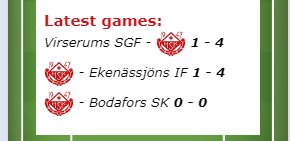
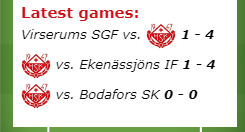
changed from hyphen to vs at latest scores

diff --git a/teams/balaryds.html b/teams/balaryds.html
@@ -50,19 +50,17 @@
       </p>
       <p>
         <span class="balaryd bold">Senaste resultat:</span><br>
-        <span class="svar scores">Gripenbergs BK - <img src="../assets/pics/logo/balaryds_50.png" alt="logo_balaryd" class="scores"> <a class="link bold"
+        <span class="svar scores">Gripenbergs BK vs. <img src="../assets/pics/logo/balaryds_50.png" alt="logo_balaryd" class="scores"> <a class="link bold"
           href="https://www.smalandsfotbollen.se/rs/matchfakta/gripenbergs-bk-balaryds-ik-toyota-cup-herr-smaland/5763909/"
           target="_blank">1 - 2</a></span>
         <br>
-        <span class="svar scores"><img src="../assets/pics/logo/balaryds_50.png" alt="logo_balaryd" class="scores"> - Sommens AIF <a class="link bold"
+        <span class="svar scores"><img src="../assets/pics/logo/balaryds_50.png" alt="logo_balaryd" class="scores"> vs. Sommens AIF <a class="link bold"
           href="https://www.smalandsfotbollen.se/rs/matchfakta/balaryds-ik-sommens-aif-toyota-cup-herr-smaland/5763907/"
           target="_blank">3 - 1</a></span>
         <br>
-        <span class="svar scores">Gripenbergs BK - <img src="../assets/pics/logo/balaryds_50.png" alt="logo_balaryd" class="scores"> <a class="link bold"
+        <span class="svar scores">Gripenbergs BK vs. <img src="../assets/pics/logo/balaryds_50.png" alt="logo_balaryd" class="scores"> <a class="link bold"
           href="https://www.smalandsfotbollen.se/rs/matchfakta/gripenbergs-bk-6-balaryds-ik-5-traningsmatcher-smaland/5786484/"
           target="_blank">0 - 0</a></span>
-        <br>
-        <span class="svar"><a class="link bold" href="" target="_blank"></a></span>
       </p>
     </div>
   </body>

diff --git a/eng/teams/backseda.html b/eng/teams/backseda.html
@@ -40,15 +40,15 @@
       </p>
       <p>
         <span class="svart bold">Latest games:</span><br>
-        <span class="svar scores">Åseda IF - <img src="../../assets/pics/logo/backseda_50.png" alt="logo_backseda" class="scores"> <a class="link bold"
+        <span class="svar scores">Åseda IF vs. <img src="../../assets/pics/logo/backseda_50.png" alt="logo_backseda" class="scores"> <a class="link bold"
           href="https://www.smalandsfotbollen.se/rs/matchfakta/aseda-if-backseda-if-toyota-cup-herr-smaland/5763927/"
           target="_blank">1 - 6</a>
         <br>
-        <span class="svar scores"><img src="../../assets/pics/logo/backseda_50.png" alt="logo_backseda" class="scores"> - Lenhovda IF <a class="link bold"
+        <span class="svar scores"><img src="../../assets/pics/logo/backseda_50.png" alt="logo_backseda" class="scores"> vs. Lenhovda IF <a class="link bold"
           href="https://www.smalandsfotbollen.se/rs/matchfakta/backseda-if-lenhovda-if-toyota-cup-herr-smaland/5763925/"
           target="_blank">1 - 1</a></span>
         <br>
-        <span class="svar scores">Farstorps IK - <img src="../../assets/pics/logo/backseda_50.png" alt="logo_backseda" class="scores"> <a class="link bold"
+        <span class="svar scores">Farstorps IK vs. <img src="../../assets/pics/logo/backseda_50.png" alt="logo_backseda" class="scores"> <a class="link bold"
           href="https://www.smalandsfotbollen.se/rs/matchfakta/farstorps-ik-6-backseda-if-5-traningsmatcher-smaland/5752622/"
           target="_blank">1 - 5</a></span>
         <span class="svar"><a class="link bold" href="" target="_blank"></a></span>

diff --git a/teams/backseda.html b/teams/backseda.html
@@ -40,15 +40,15 @@
       </p>
       <p>
         <span class="svart bold">Senaste resultat:</span><br>
-        <span class="svar scores">Åseda IF - <img src="../assets/pics/logo/backseda_50.png" alt="logo_backseda" class="scores"> <a class="link bold"
+        <span class="svar scores">Åseda IF vs. <img src="../assets/pics/logo/backseda_50.png" alt="logo_backseda" class="scores"> <a class="link bold"
           href="https://www.smalandsfotbollen.se/rs/matchfakta/aseda-if-backseda-if-toyota-cup-herr-smaland/5763927/"
           target="_blank">1 - 6</a>
         <br>
-        <span class="svar scores"><img src="../assets/pics/logo/backseda_50.png" alt="logo_backseda" class="scores"> - Lenhovda IF <a class="link bold"
+        <span class="svar scores"><img src="../assets/pics/logo/backseda_50.png" alt="logo_backseda" class="scores"> vs. Lenhovda IF <a class="link bold"
           href="https://www.smalandsfotbollen.se/rs/matchfakta/backseda-if-lenhovda-if-toyota-cup-herr-smaland/5763925/"
           target="_blank">1 - 1</a></span>
         <br>
-        <span class="svar scores">Farstorps IK - <img src="../assets/pics/logo/backseda_50.png" alt="logo_backseda" class="scores"> <a class="link bold"
+        <span class="svar scores">Farstorps IK vs. <img src="../assets/pics/logo/backseda_50.png" alt="logo_backseda" class="scores"> <a class="link bold"
           href="https://www.smalandsfotbollen.se/rs/matchfakta/farstorps-ik-6-backseda-if-5-traningsmatcher-smaland/5752622/"
           target="_blank">1 - 5</a></span>
         <span class="svar"><a class="link bold" href="" target="_blank"></a></span>

diff --git a/eng/teams/ekenassjon.html b/eng/teams/ekenassjon.html
@@ -40,15 +40,15 @@
       </p>
       <p>
         <span class="ekenassjon bold">Latest games:</span><br>
-        <span class="svar scores">Farstorps IK - <img src="../../assets/pics/logo/ekenassjon_50.png" alt="logo_ekenassjon" class="scores"> <a class="link bold"
+        <span class="svar scores">Farstorps IK vs. <img src="../../assets/pics/logo/ekenassjon_50.png" alt="logo_ekenassjon" class="scores"> <a class="link bold"
           href="https://www.smalandsfotbollen.se/rs/matchfakta/farstorps-ik-6-ekenassjons-if-5-traningsmatcher-smaland/5765204/"
           target="_blank">0 - 1</a></span>
         <br>
-        <span class="svar scores">Holsby SK - <img src="../../assets/pics/logo/ekenassjon_50.png" alt="logo_ekenassjon" class="scores"> <a class="link bold"
+        <span class="svar scores">Holsby SK vs. <img src="../../assets/pics/logo/ekenassjon_50.png" alt="logo_ekenassjon" class="scores"> <a class="link bold"
           href="https://www.smalandsfotbollen.se/rs/matchfakta/holsby-sk-ekenassjons-if-toyota-cup-herr-smaland/5763931/"
           target="_blank">1 - 4</a></span>
         <br>
-        <span class="svar scores"><img src="../../assets/pics/logo/ekenassjon_50.png" alt="logo_ekenassjon" class="scores"> - Mörlunda GIF <a class="link bold"
+        <span class="svar scores"><img src="../../assets/pics/logo/ekenassjon_50.png" alt="logo_ekenassjon" class="scores"> vs. Mörlunda GIF <a class="link bold"
           href="https://www.smalandsfotbollen.se/rs/matchfakta/ekenassjons-if-morlunda-gif-toyota-cup-herr-smaland/5763934/"
           target="_blank">3 - 0</a></span>
       </p>

diff --git a/eng/teams/lekeryd.html b/eng/teams/lekeryd.html
@@ -40,15 +40,15 @@
       </p>
       <p>
         <span class="lekeryd bold">Latest games:</span><br>
-        <span class="svar scores">Visingsö AIS - <img src="../../assets/pics/logo/lekeryd_50.png" alt="logo_lekeryd" class="scores"> <a class="link bold"
+        <span class="svar scores">Visingsö AIS vs. <img src="../../assets/pics/logo/lekeryd_50.png" alt="logo_lekeryd" class="scores"> <a class="link bold"
           href="https://www.smalandsfotbollen.se/rs/matchfakta/visingso-ais-lekeryd-svart.-sk-toyota-cup-herr-smaland/5763891/"
           target="_blank">3 - 4</a></span>
         <br>
-        <span class="svar scores"><img src="../../assets/pics/logo/lekeryd_50.png" alt="logo_lekeryd" class="scores"> - Skillingaryds IS <a class="link bold"
+        <span class="svar scores"><img src="../../assets/pics/logo/lekeryd_50.png" alt="logo_lekeryd" class="scores"> vs. Skillingaryds IS <a class="link bold"
           href="https://www.smalandsfotbollen.se/rs/matchfakta/lekeryd-svart.-sk-skillingaryds-is-toyota-cup-herr-smaland/5763889/"
           target="_blank">0 - 2</a></span>
         <br>
-        <span class="svar scores"><img src="../../assets/pics/logo/lekeryd_50.png" alt="logo_lekeryd" class="scores"> - Ekhagens IF <a class="link bold"
+        <span class="svar scores"><img src="../../assets/pics/logo/lekeryd_50.png" alt="logo_lekeryd" class="scores"> vs. Ekhagens IF <a class="link bold"
           href="https://www.smalandsfotbollen.se/rs/matchfakta/lekeryd-svart.-sk-5-ekhagens-if-4-traningsmatcher-smaland/5776234/"
           target="_blank">0 - 4</a></span>
       </p>

diff --git a/teams/ekenassjon.html b/teams/ekenassjon.html
@@ -40,15 +40,15 @@
       </p>
       <p>
         <span class="ekenassjon bold">Senaste resultat:</span><br>
-        <span class="svar scores">Farstorps IK - <img src="../assets/pics/logo/ekenassjon_50.png" alt="logo_ekenassjon" class="scores"> <a class="link bold"
+        <span class="svar scores">Farstorps IK vs. <img src="../assets/pics/logo/ekenassjon_50.png" alt="logo_ekenassjon" class="scores"> <a class="link bold"
           href="https://www.smalandsfotbollen.se/rs/matchfakta/farstorps-ik-6-ekenassjons-if-5-traningsmatcher-smaland/5765204/"
           target="_blank">0 - 1</a></span>
         <br>
-        <span class="svar scores">Holsby SK - <img src="../assets/pics/logo/ekenassjon_50.png" alt="logo_ekenassjon" class="scores"> <a class="link bold"
+        <span class="svar scores">Holsby SK vs. <img src="../assets/pics/logo/ekenassjon_50.png" alt="logo_ekenassjon" class="scores"> <a class="link bold"
           href="https://www.smalandsfotbollen.se/rs/matchfakta/holsby-sk-ekenassjons-if-toyota-cup-herr-smaland/5763931/"
           target="_blank">1 - 4</a></span>
         <br>
-        <span class="svar scores"><img src="../assets/pics/logo/ekenassjon_50.png" alt="logo_ekenassjon" class="scores"> - Mörlunda GIF <a class="link bold"
+        <span class="svar scores"><img src="../assets/pics/logo/ekenassjon_50.png" alt="logo_ekenassjon" class="scores"> vs. Mörlunda GIF <a class="link bold"
           href="https://www.smalandsfotbollen.se/rs/matchfakta/ekenassjons-if-morlunda-gif-toyota-cup-herr-smaland/5763934/"
           target="_blank">3 - 0</a></span>
       </p>

diff --git a/eng/teams/balaryds.html b/eng/teams/balaryds.html
@@ -53,15 +53,15 @@
       </p>
       <p>
         <span class="balaryd bold">Latest games:</span><br>
-        <span class="svar scores">Gripenbergs BK - <img src="../../assets/pics/logo/balaryds_50.png" alt="logo_balaryd" class="scores"> <a class="link bold"
+        <span class="svar scores">Gripenbergs BK vs. <img src="../../assets/pics/logo/balaryds_50.png" alt="logo_balaryd" class="scores"> <a class="link bold"
           href="https://www.smalandsfotbollen.se/rs/matchfakta/gripenbergs-bk-balaryds-ik-toyota-cup-herr-smaland/5763909/"
           target="_blank">1 - 2</a></span>
         <br>
-        <span class="svar scores"><img src="../../assets/pics/logo/balaryds_50.png" alt="logo_balaryd" class="scores"> - Sommens AIF <a class="link bold"
+        <span class="svar scores"><img src="../../assets/pics/logo/balaryds_50.png" alt="logo_balaryd" class="scores"> vs. Sommens AIF <a class="link bold"
           href="https://www.smalandsfotbollen.se/rs/matchfakta/balaryds-ik-sommens-aif-toyota-cup-herr-smaland/5763907/"
           target="_blank">3 - 1</a></span>
         <br>
-        <span class="svar scores">Gripenbergs BK - <img src="../../assets/pics/logo/balaryds_50.png" alt="logo_balaryd" class="scores"> <a class="link bold"
+        <span class="svar scores">Gripenbergs BK vs. <img src="../../assets/pics/logo/balaryds_50.png" alt="logo_balaryd" class="scores"> <a class="link bold"
           href="https://www.smalandsfotbollen.se/rs/matchfakta/gripenbergs-bk-6-balaryds-ik-5-traningsmatcher-smaland/5786484/"
           target="_blank">0 - 0</a></span>
         <br>

diff --git a/teams/lekeryd.html b/teams/lekeryd.html
@@ -40,15 +40,15 @@
       </p>
       <p>
         <span class="lekeryd bold">Senaste resultat:</span><br>
-        <span class="svar scores">Visingsö AIS - <img src="../assets/pics/logo/lekeryd_50.png" alt="logo_lekeryd" class="scores"> <a class="link bold"
+        <span class="svar scores">Visingsö AIS vs. <img src="../assets/pics/logo/lekeryd_50.png" alt="logo_lekeryd" class="scores"> <a class="link bold"
           href="https://www.smalandsfotbollen.se/rs/matchfakta/visingso-ais-lekeryd-svart.-sk-toyota-cup-herr-smaland/5763891/"
           target="_blank">3 - 4</a></span>
         <br>
-        <span class="svar scores"><img src="../assets/pics/logo/lekeryd_50.png" alt="logo_lekeryd" class="scores"> - Skillingaryds IS <a class="link bold"
+        <span class="svar scores"><img src="../assets/pics/logo/lekeryd_50.png" alt="logo_lekeryd" class="scores"> vs. Skillingaryds IS <a class="link bold"
           href="https://www.smalandsfotbollen.se/rs/matchfakta/lekeryd-svart.-sk-skillingaryds-is-toyota-cup-herr-smaland/5763889/"
           target="_blank">0 - 2</a></span>
         <br>
-        <span class="svar scores"><img src="../assets/pics/logo/lekeryd_50.png" alt="logo_lekeryd" class="scores"> - Ekhagens IF <a class="link bold"
+        <span class="svar scores"><img src="../assets/pics/logo/lekeryd_50.png" alt="logo_lekeryd" class="scores"> vs. Ekhagens IF <a class="link bold"
           href="https://www.smalandsfotbollen.se/rs/matchfakta/lekeryd-svart.-sk-5-ekhagens-if-4-traningsmatcher-smaland/5776234/"
           target="_blank">0 - 4</a></span>
       </p>

diff --git a/eng/teams/eksjo.html b/eng/teams/eksjo.html
@@ -40,15 +40,15 @@
       </p>
       <p>
         <span class="eksjo bold">Latest games:</span><br>
-        <span class="svar scores">Järnforsens AIK - <img src="../../assets/pics/logo/eksjo_50.png" alt="logo_eksjo" class="scores"> <a class="link bold"
+        <span class="svar scores">Järnforsens AIK vs. <img src="../../assets/pics/logo/eksjo_50.png" alt="logo_eksjo" class="scores"> <a class="link bold"
           href="https://www.smalandsfotbollen.se/rs/matchfakta/jarnforsens-aik-if-eksjo-fotboll-toyota-cup-herr-smaland/5763939/"
           target="_blank">0 - 5</a></span>
         <br>
-        <span class="svar scores"><img src="../../assets/pics/logo/eksjo_50.png" alt="logo_eksjo" class="scores"> - Höreda GIF <a class="link bold"
+        <span class="svar scores"><img src="../../assets/pics/logo/eksjo_50.png" alt="logo_eksjo" class="scores"> vs. Höreda GIF <a class="link bold"
           href="https://www.smalandsfotbollen.se/rs/matchfakta/if-eksjo-fotboll-horeda-gif-toyota-cup-herr-smaland/5763937/"
           target="_blank">3 - 3</a></span>
         <br>
-        <span class="svar scores"><img src="../../assets/pics/logo/eksjo_50.png" alt="logo_eksjo" class="scores"> - Hjorted-Totebo <a class="link bold"
+        <span class="svar scores"><img src="../../assets/pics/logo/eksjo_50.png" alt="logo_eksjo" class="scores"> vs. Hjorted-Totebo <a class="link bold"
           href="https://www.smalandsfotbollen.se/rs/matchfakta/if-eksjo-fotboll-5-hjorted-totebo-5-traningsmatcher-smaland/5765269/"
           target="_blank">1 - 1</a></span>
       </p>

diff --git a/eng/teams/holsby.html b/eng/teams/holsby.html
@@ -42,15 +42,15 @@
       </p>
       <p>
         <span class="holsby bold">Latest games:</span><br>
-        <span class="svar scores">Virserums SGF - <img src="../../assets/pics/logo/holsby_50.png" alt="logo_holsby" class="scores"> <a class="link bold"
+        <span class="svar scores">Virserums SGF vs. <img src="../../assets/pics/logo/holsby_50.png" alt="logo_holsby" class="scores"> <a class="link bold"
           href="https://www.smalandsfotbollen.se/rs/matchfakta/virserums-sgf-holsby-sk-toyota-cup-herr-smaland/5763933/"
           target="_blank">1 - 4</a></span>
         <br>
-        <span class="svar scores"><img src="../../assets/pics/logo/holsby_50.png" alt="logo_holsby" class="scores"> - Ekenässjöns IF <a class="link bold"
+        <span class="svar scores"><img src="../../assets/pics/logo/holsby_50.png" alt="logo_holsby" class="scores"> vs. Ekenässjöns IF <a class="link bold"
           href="https://www.smalandsfotbollen.se/rs/matchfakta/holsby-sk-ekenassjons-if-toyota-cup-herr-smaland/5763931/"
           target="_blank">1 - 4</a></span>
         <br>
-        <span class="svar scores"><img src="../../assets/pics/logo/holsby_50.png" alt="logo_holsby" class="scores"> - Bodafors SK <a class="link bold"
+        <span class="svar scores"><img src="../../assets/pics/logo/holsby_50.png" alt="logo_holsby" class="scores"> vs. Bodafors SK <a class="link bold"
           href="https://www.smalandsfotbollen.se/rs/matchfakta/holsby-sk-5-bodafors-sk-6-traningsmatcher-smaland/5756258/"
           target="_blank">0 - 0</a></span>
       </p>

diff --git a/eng/teams/sommen.html b/eng/teams/sommen.html
@@ -50,15 +50,15 @@
       </p>
       <p>
         <span class="sommen bold">Latest games:</span><br>
-        <span class="svar scores">Bälaryds IK - <img src="../../assets/pics/logo/sommen_50.png" alt="logo_sommen" class="scores"> <a class="link bold"
+        <span class="svar scores">Bälaryds IK vs. <img src="../../assets/pics/logo/sommen_50.png" alt="logo_sommen" class="scores"> <a class="link bold"
           href="https://www.smalandsfotbollen.se/rs/matchfakta/balaryds-ik-sommens-aif-toyota-cup-herr-smaland/5763907/"
           target="_blank">3 - 1</a>
         <br>
-        <span class="svar scores"><img src="../../assets/pics/logo/sommen_50.png" alt="logo_sommen" class="scores"> - IFK Österbymo <a class="link bold"
+        <span class="svar scores"><img src="../../assets/pics/logo/sommen_50.png" alt="logo_sommen" class="scores"> vs. IFK Österbymo <a class="link bold"
           href="https://www.smalandsfotbollen.se/rs/matchfakta/sommens-aif-5-ifk-osterbymo-6-traningsmatcher-smaland/5786439/"
           target="_blank">2 - 2</a></span>
         <br>
-        <span class="svar scores">Tranås AIF - <img src="../../assets/pics/logo/sommen_50.png" alt="logo_sommen" class="scores"> <a class="link bold"
+        <span class="svar scores">Tranås AIF vs. <img src="../../assets/pics/logo/sommen_50.png" alt="logo_sommen" class="scores"> <a class="link bold"
           href="https://www.smalandsfotbollen.se/rs/matchfakta/tranas-ff-4-sommens-aif-5-traningsmatcher-smaland/5812111/"
           target="_blank">5 - 1</a></span>
         </span>

diff --git a/teams/eksjo.html b/teams/eksjo.html
@@ -40,15 +40,15 @@
       </p>
       <p>
         <span class="eksjo bold">Senaste resultat:</span><br>
-        <span class="svar scores">Järnforsens AIK - <img src="../assets/pics/logo/eksjo_50.png" alt="logo_eksjo" class="scores"> <a class="link bold"
+        <span class="svar scores">Järnforsens AIK vs. <img src="../assets/pics/logo/eksjo_50.png" alt="logo_eksjo" class="scores"> <a class="link bold"
           href="https://www.smalandsfotbollen.se/rs/matchfakta/jarnforsens-aik-if-eksjo-fotboll-toyota-cup-herr-smaland/5763939/"
           target="_blank">0 - 5</a></span>
         <br>
-        <span class="svar scores"><img src="../assets/pics/logo/eksjo_50.png" alt="logo_eksjo" class="scores"> - Höreda GIF <a class="link bold"
+        <span class="svar scores"><img src="../assets/pics/logo/eksjo_50.png" alt="logo_eksjo" class="scores"> vs. Höreda GIF <a class="link bold"
           href="https://www.smalandsfotbollen.se/rs/matchfakta/if-eksjo-fotboll-horeda-gif-toyota-cup-herr-smaland/5763937/"
           target="_blank">3 - 3</a></span>
         <br>
-        <span class="svar scores"><img src="../assets/pics/logo/eksjo_50.png" alt="logo_eksjo" class="scores"> - Hjorted-Totebo <a class="link bold"
+        <span class="svar scores"><img src="../assets/pics/logo/eksjo_50.png" alt="logo_eksjo" class="scores"> vs. Hjorted-Totebo <a class="link bold"
           href="https://www.smalandsfotbollen.se/rs/matchfakta/if-eksjo-fotboll-5-hjorted-totebo-5-traningsmatcher-smaland/5765269/"
           target="_blank">1 - 1</a></span>
       </p>
